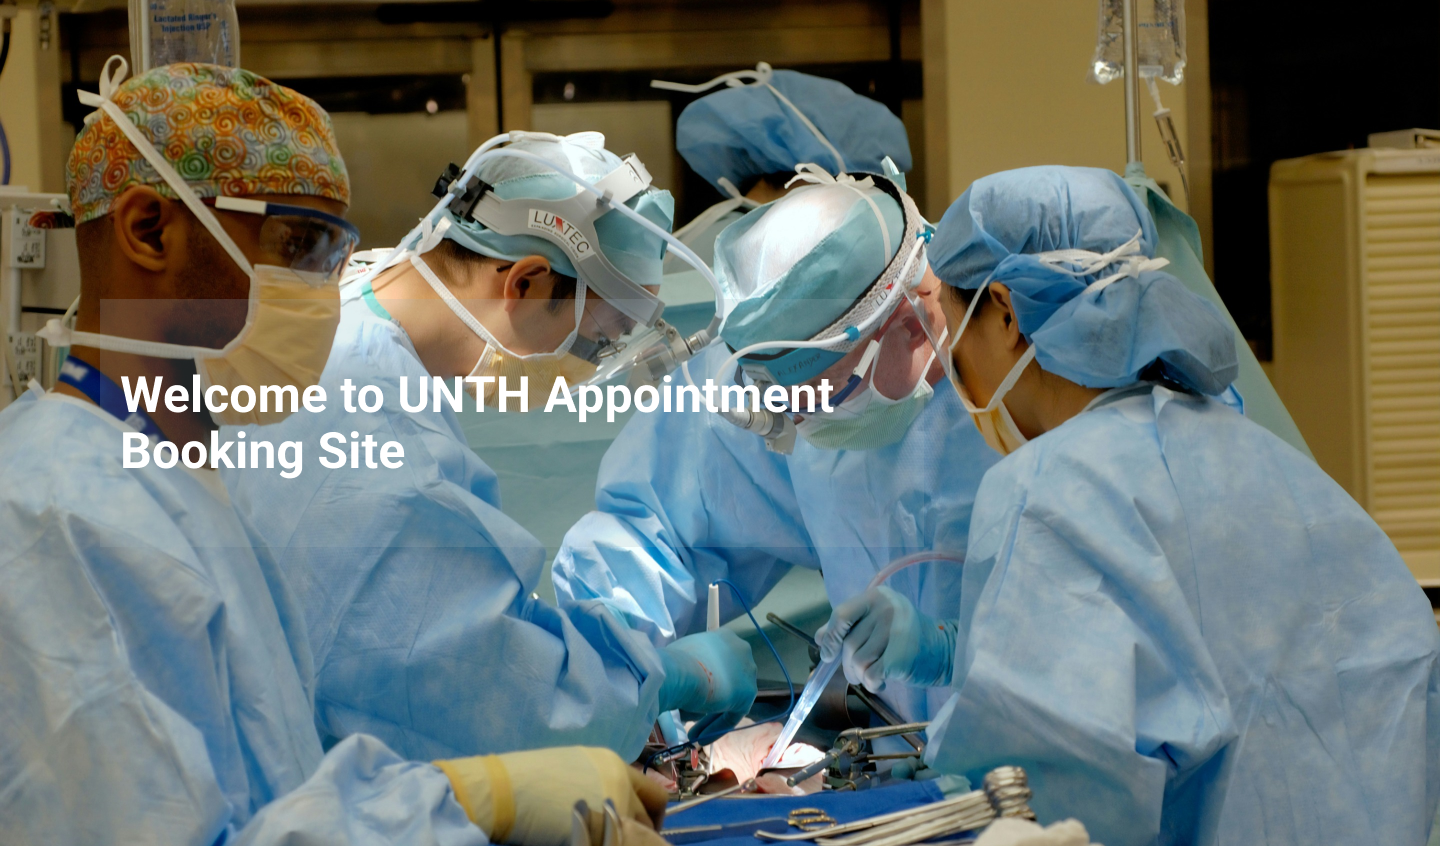
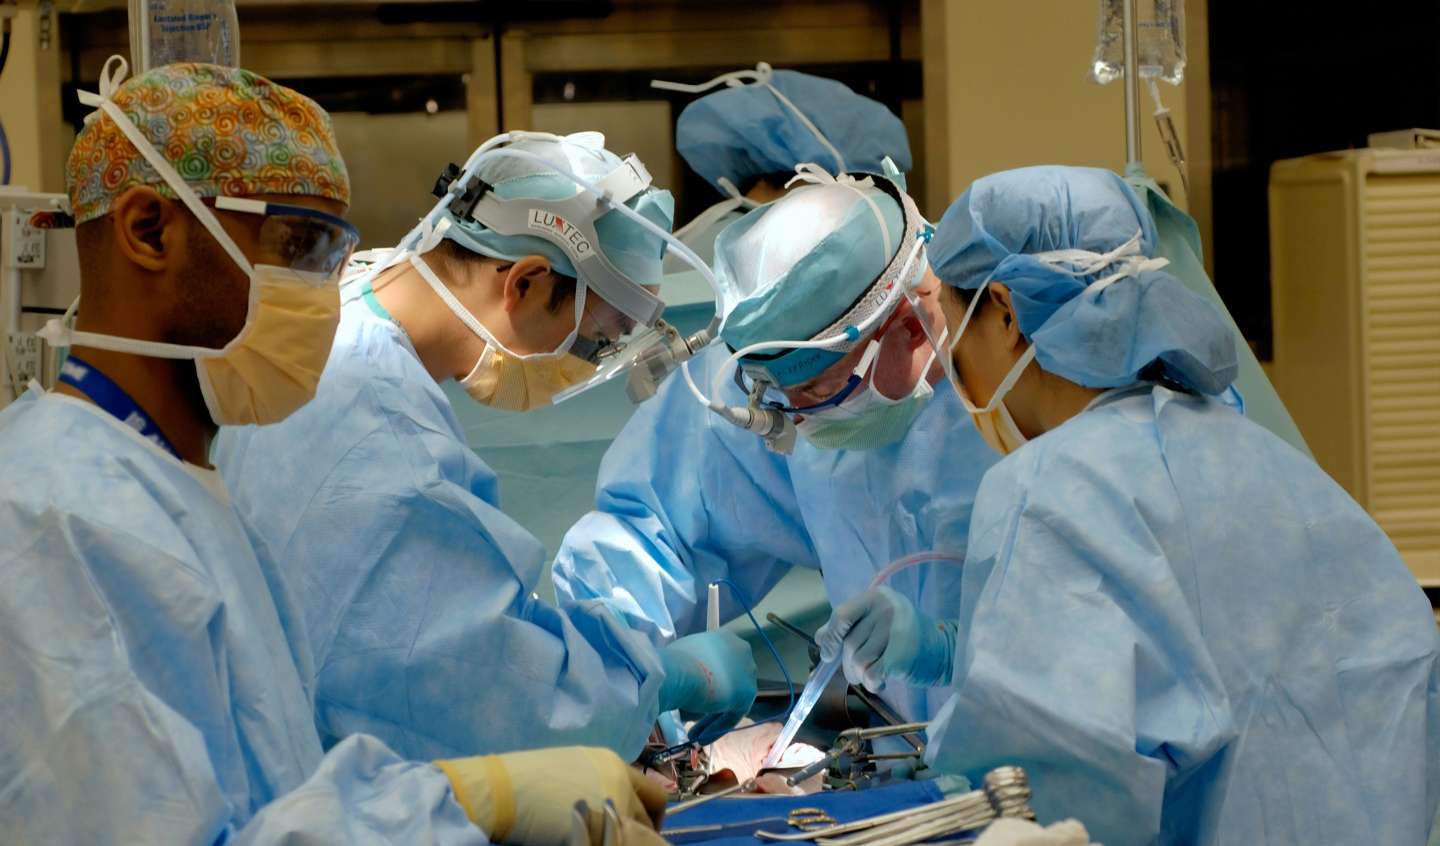
update

Changed region(s): [[0.0625, 0.3381, 0.6562, 0.6454], [0.4062, 0.5839, 0.5, 0.6454], [0.3125, 0.5532, 0.3438, 0.6147]]

diff --git a/css/style.css b/css/style.css
@@ -48,15 +48,16 @@ body {
 
 /* -----------NAV BAR--------------- */
 
+
 .nav_bar {
   display: flex;
   flex-direction: row;
   justify-content: space-between;
   align-items: center;
-  padding: 40px 90px 40px 90px;
+  padding: 0 50px;
   text-transform: capitalize;
   width: 100%;
-}
+} 
 
 
 .nav_bar :hover {
@@ -72,23 +73,23 @@ a {
   font-size: 15px;
   font-weight: 500;
 }
-
 header ul {
   display: flex;
-  gap: 100px;
-  justify-content: space-between;
-  align-items: center;
-  position: relative;
+  gap: 150px;
+  justify-content: center;
+  align-content: center;
+  position: relative; 
 }
+
 
 .mobile_header {
   display: none;
-  background-color: rgba(6, 46, 18, 0.747);
-  width: 100vw;
+  background-color: #004D2C;
+  width: 100vw; 
   height: 50vh;
   position: absolute;
   top: 120px;
-  right: 0;
+  left: 0;
   border-radius: 15px;
 }
 
@@ -136,22 +137,21 @@ header ul {
   padding: 0 30px ;
   width: 100%;
   height: 650px;
-  background-image: url("../images/hero-image.jpg");
+  background-image: url("../images/Hero-section.png");
   background-size: cover;
   background-repeat: no-repeat;
-  background-position: center;
   animation: change 16s infinite step-end;
 } 
 
 @keyframes change {
   0% {
-    background-image: url(../images/hero-image.jpg);
+    background-image: url(../images/Hero-section.png);
   }
   20% {
-    background-image: url(../images/slider.jpg);
+    background-image: url(../images/slider2/Variant4.png);
   }
   40% {
-    background-image: url(../images/slider-2.jpg);
+    background-image: url(../images/slider1/Variant4.png);
   }
 }
 

diff --git a/index.html b/index.html
@@ -30,10 +30,11 @@
     </div>
 
     <div class="nav_bar">
-    </nav> 
+  
     <div class="logo"> 
     <img src="images/unth-logo-header-1-e1592809715719.png.png" alt="" class="logo">
     </div>
+      </nav> 
     <nav class="mobile_header">
         <ul>
             <li><a href="./index.html" target=" _blank">Home</a></li>

diff --git a/css/mediaquery.css b/css/mediaquery.css
@@ -238,6 +238,7 @@
     justify-content: center;
     align-items: center;
     text-align: center;
+    gap: 12px;
     /* width: 400px; */
   }
 
